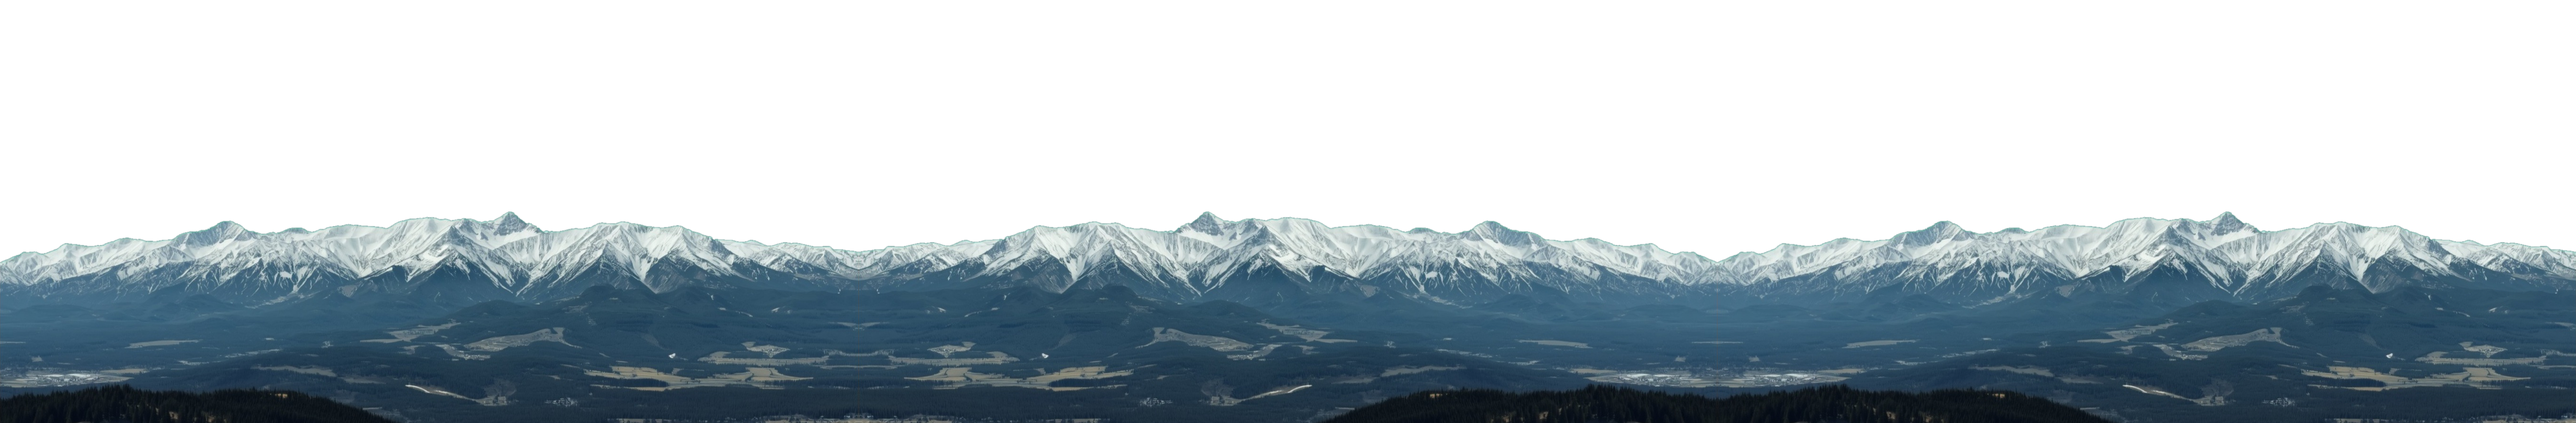
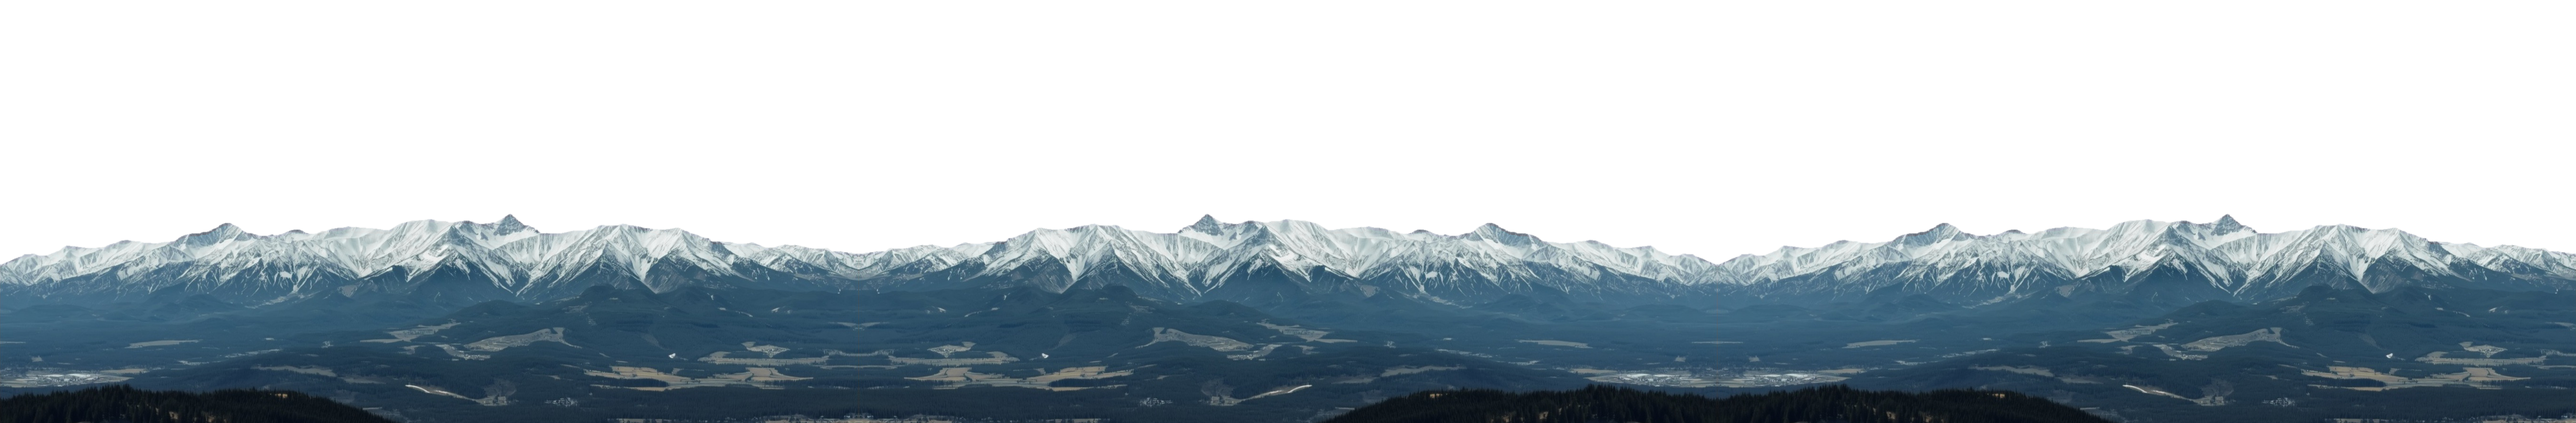
Day Arc: remove green/cyan key-fringe along the mountain ridge (neutralize top edge band + erode) on all 3 sets; cache-bust

diff --git a/dayarc.js b/dayarc.js
@@ -106,9 +106,9 @@
     E.sun=mk(host,"da-sun");  E.sun.innerHTML='<img src="'+ASSET+'sun.png" alt="">';
     E.moon=mk(host,"da-moon"); E.moon.innerHTML='<img src="'+ASSET+'moon.png" alt="">';
     E.clouds=mk(host,"da-clouds-layer");
-    E.mtnDay=mk(host,"da-mtn"); E.mtnDay.style.backgroundImage="url('"+ASSET+"mtn-day.png?v=2316')";
-    E.mtnDusk=mk(host,"da-mtn"); E.mtnDusk.style.backgroundImage="url('"+ASSET+"mtn-dusk.png?v=2316')"; E.mtnDusk.style.opacity="0";
-    E.mtnNight=mk(host,"da-mtn"); E.mtnNight.style.backgroundImage="url('"+ASSET+"mtn-night.png?v=2316')"; E.mtnNight.style.opacity="0";
+    E.mtnDay=mk(host,"da-mtn"); E.mtnDay.style.backgroundImage="url('"+ASSET+"mtn-day.png?v=2320')";
+    E.mtnDusk=mk(host,"da-mtn"); E.mtnDusk.style.backgroundImage="url('"+ASSET+"mtn-dusk.png?v=2320')"; E.mtnDusk.style.opacity="0";
+    E.mtnNight=mk(host,"da-mtn"); E.mtnNight.style.backgroundImage="url('"+ASSET+"mtn-night.png?v=2320')"; E.mtnNight.style.opacity="0";
     E.rain=mk(host,"da-rain-layer");
     E.snow=mk(host,"da-snow-layer");
   }

diff --git a/dayarc-preview/index.html b/dayarc-preview/index.html
@@ -6,7 +6,7 @@
 <title>Day Arc — preview</title>
 <link rel="preconnect" href="https://fonts.googleapis.com">
 <link href="https://fonts.googleapis.com/css2?family=Playfair+Display:wght@700&family=Lora:ital@0;1&display=swap" rel="stylesheet">
-<link rel="stylesheet" href="../dayarc.css?v=20260626233000">
+<link rel="stylesheet" href="../dayarc.css?v=20260626234500">
 <style>
   *{box-sizing:border-box}
   html,body{margin:0;background:#07060b;color:#EDE5F8;
@@ -68,7 +68,7 @@
     hourly: TEMPS.map(function(t){return {code:0,temp:t};})
   };
 </script>
-<script src="../dayarc.js?v=20260626233000"></script>
+<script src="../dayarc.js?v=20260626234500"></script>
 <script>
   function fmt(m){m=((m%1440)+1440)%1440;var h=Math.floor(m/60),mn=m%60,ap=h<12?"AM":"PM",hh=h%12||12;return hh+":"+(mn<10?"0":"")+mn+" "+ap;}
   var slider=document.getElementById('time'), tlabel=document.getElementById('tlabel');

diff --git a/index.html b/index.html
@@ -4551,7 +4551,7 @@ curtainInit();
 </style>
 <script>window.DAYARC_CONFIG={appendHost:'.header'};</script>
 <link rel="stylesheet" href="dayarc.css?v=20260626213000">
-<script src="dayarc.js?v=20260626233000"></script>
+<script src="dayarc.js?v=20260626234500"></script>
 <script>(function(){ function relocate(){ try{ var c=document.querySelector('.content'); if(!c) return;
   var eb=document.getElementById('app-eyebrow'); if(eb&&eb.parentElement!==c){ eb.classList.add('eyebrow-bottom'); c.appendChild(eb); }
   var tr=document.querySelector('.hdr-trackers'), hd=document.querySelector('.header'); if(tr&&hd&&tr.parentElement!==hd){ hd.appendChild(tr); }

diff --git a/sw.js b/sw.js
@@ -1,7 +1,7 @@
 // sw.js — network-first service worker.
 // Fixes "deploys don't show up": always fetches the latest from the network when
 // online, caches a copy for offline use, and falls back to cache only when offline.
-const CACHE = 'hg-cache-20260626233000';
+const CACHE = 'hg-cache-20260626234500';
 
 self.addEventListener('install', (e) => {
   // take over immediately, don't wait for old SW to release
